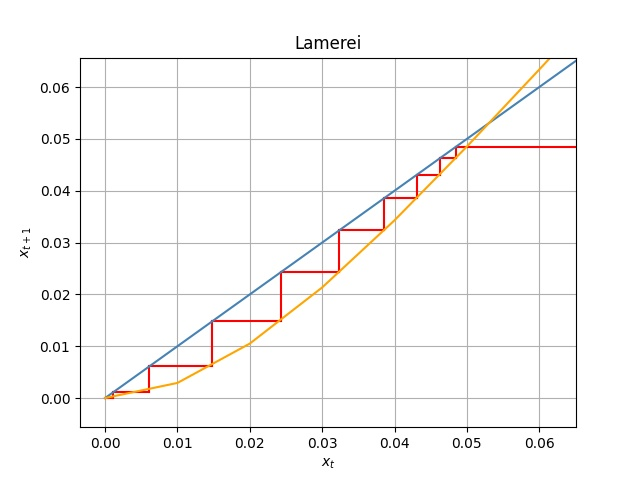
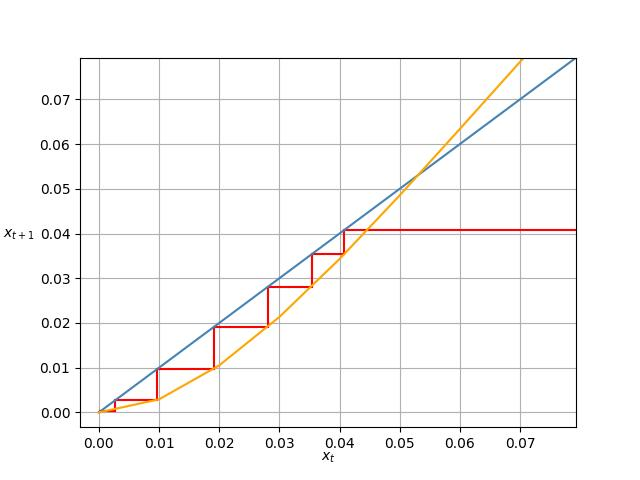
Fix

diff --git a/grpah/runner.py b/grpah/runner.py
@@ -682,11 +682,80 @@ def run_lamerei():
         f=lambda x: function.f(a, b, x),
     )
 
-    plotter = Plotter()._setup('$x_t$', '$x_{t+1}$', 'linear', 'major', 'Lamerei')
+    plotter = (Plotter()
+               # .setup_title("Lamerei")
+               .setup_x_label('$x_t$')
+               .setup_y_label('$x_{t + 1}$')
+               .setup_grid(grid.major)
+               .setup_y_scale(scale.linear))
 
     for lst in [source0, source1, source2]:
         for i in lst:
             plotter.plot([i[0], i[2]], [i[1], i[3]], ',', 'red')
+
+    (plotter
+        .plot(x_range, others.g(a, x_range), ',', colors.steel_blue)
+        .plot(x_range, function.f(a, b, x_range), ',', colors.orange)
+        .show_last())
+
+
+def run_lamerei_fast_zero():
+    a = 1
+    b = 0.56
+    time_range = range(1, 100 + 1)
+    skip = False
+    x_range = np.arange(0, 1.4, 0.01)
+
+    source = lamerei(
+        x_start=1.3,
+        time_range=time_range,
+        skip=skip,
+        f=lambda x: function.f(a, b, x)
+    )
+
+    plotter = (Plotter()
+               # .setup_title("Lamerei")
+               .setup_x_label('$x_t$')
+               .setup_y_label('$x_{t + 1}$', label_pad=15)
+               .setup_grid(grid.major)
+               .setup_y_scale(scale.linear))
+
+    for i in source:
+        plotter.plot([i[0], i[2]], [i[1], i[3]], ',', 'red')
+
+    plotter.add_rectangle(-0.0035, -0.0035, 0.0835, 0.0835)
+
+    (plotter
+        .plot(x_range, others.g(a, x_range), ',', colors.steel_blue)
+        .plot(x_range, function.f(a, b, x_range), ',', colors.orange)
+        .show_last())
+
+
+def run_lamerei_fast_zero_segment():
+    a = 1
+    b = 0.56
+    time_range = range(1, 100 + 1)
+    skip = False
+    x_range = np.arange(0, 0.1, 0.01)
+
+    source = lamerei(
+        x_start=1.3,
+        time_range=time_range,
+        skip=skip,
+        f=lambda x: function.f(a, b, x)
+    )
+
+    plotter = (Plotter()
+               # .setup_title("Lamerei")
+               .setup_x_label('$x_t$')
+               .setup_y_label('$x_{t + 1}$', label_pad=15)
+               .setup_grid(grid.major)
+               .setup_y_scale(scale.linear))
+
+    for i in source:
+        plotter.plot([i[0], i[2]], [i[1], i[3]], ',', 'red')
+
+    plotter.add_rectangle(-0.0035, -0.0035, 0.0835, 0.0835)
 
     (plotter
         .plot(x_range, others.g(a, x_range), ',', colors.steel_blue)

diff --git a/grpah/main.py b/grpah/main.py
@@ -36,6 +36,8 @@ if __name__ == "__main__":
 
     # Показать лестницу Ламерея
     # run_lamerei()
+    # run_lamerei_fast_zero()
+    # run_lamerei_fast_zero_segment()
 
     # Показать график бифуркации и корни
     # run_bifurcation_with_equilibrium()
